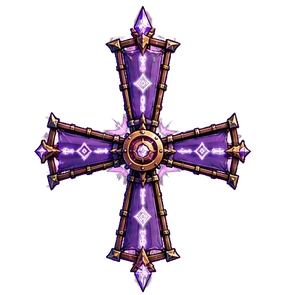
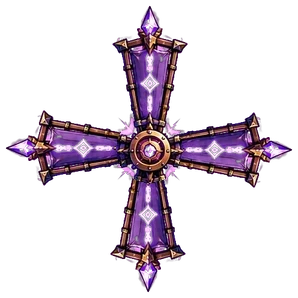
v0.6.3.0444 각성 풍차 날개 네 개 길이 통일(회전 중심 정중앙)
Claude-Session: https://claude.ai/code/session_01AwLthSKStJ6TZafJZN1U3z

Changed region(s): [[0.0, 0.0, 0.9763, 1.0]]

diff --git a/index.html b/index.html
@@ -1188,7 +1188,7 @@ body.hud-norank #dmgRank,body.hud-nocombo #combo{display:none!important}
     <div class="spVer" id="spVer"></div>
   </section>
   <section class="screen" id="sTitle">
-    <div class="ver" id="verT">v0.6.3.0443</div>
+    <div class="ver" id="verT">v0.6.3.0444</div>
     <button class="gearT" id="bSet" aria-label="메뉴"><svg viewBox="0 0 24 24" width="24" height="24" fill="none" stroke="currentColor" stroke-width="2.2" stroke-linecap="round" aria-hidden="true"><path d="M4 7h16M4 12h16M4 17h16"/></svg><i class="mnew" id="menuB" hidden>NEW</i></button>
     <button class="gearT" id="bFull" aria-label="전체화면" hidden></button>
     <div class="eyebrow">DARK GUARDIAN</div>
@@ -5684,7 +5684,7 @@ function townBub(k){ const B=getTown()[k], D=TOWN_B[k], lv=B.lv|0; if(lv<1)retur
   if(D.stat){ townTick(k); const n=B.n|0; return n>0?{tx:`🧪 ${n}개 ▸ 받기`,cls:'g'}:null; }   /* 풍차는 올스탯 말풍선을 따로 띄우지 않아요(건물을 눌러 확인) · 예전 물약이 남아 있을 때만 받기 말풍선 */
   const P=townProd(k), n=B.n|0, full=n>=P.cap; return {tx:`${D.pot?'🧪':D.e} ${n}/${P.cap}${full?' 가득!':n>0?' ▸ 받기':''}`,cls:full?'f':n>0?'g':'z'}; }
 /* 각성 풍차 그림: 레벨 단계(Lv.1~2·3~4·5~6·7~8·9~10)마다 몸체가 발전하고, 날개 그림이 축을 중심으로 천천히 돌아요. [몸체 가로·세로, 축 x·y, 날개 한 변] (그림 픽셀, 화면에는 1/3로 보여줘요) · 그림이 없으면 기본 SVG */
-const MILL_ST=[[165,281,82,85,269],[167,352,83,132,268],[182,404,94,142,295],[209,427,105,140,316],[200,436,100,147,391]];
+const MILL_ST=[[165,281,82,85,268],[167,352,83,132,268],[182,404,94,142,298],[209,427,105,140,324],[200,436,100,147,392]];
 function millArt(lv){ const st=Math.max(1,Math.min(5,Math.ceil(lv/2))), [w,h,hx,hy,cw]=MILL_ST[st-1], f=n=>(n/3).toFixed(1), oh=Math.max(0,Math.round((cw/2-hy)/3)), bad=`this.closest('.tbd').classList.add('mbad')`;
   return `<span class="tmill" style="width:${f(w)}px;height:${f(h)}px;margin-top:${oh}px"><img class="mb" src="img/town_mill_body_${st}.webp" alt="" draggable="false" onerror="${bad}"><img class="ml" src="img/town_mill_blades_${st}.webp" alt="" draggable="false" style="left:${f(hx)}px;top:${f(hy)}px;width:${f(cw)}px;height:${f(cw)}px;animation-duration:${22-2*st}s" onerror="${bad}"></span>`; }
 /* 그림자 타워 그림: 레벨(1~5)마다 모양이 발전하고 크기도 조금씩 커져요. [그림 가로·세로] (그림 픽셀, 화면에는 1/3로 보여줘요) · 그림이 없으면 기본 SVG */

diff --git a/CLAUDE.md b/CLAUDE.md
@@ -1,3 +1,3 @@
 # 개발 규칙
 - 게임 밸런스/수치(확률, 데미지, 비용, 쿨타임, 드랍 등)를 바꿀 때마다 `patchnotes.txt` 맨 위에 해당 버전 항목을 추가하고 바뀐 수치를 간략히 적는다. 표기는 "변경: 120% → 90%", "상향: 3 → 5", "하향: …", "수정: …", "추가: …"처럼 쓴다("이전 → 이후:" 문구는 쓰지 않는다. 필요하면 "이전: A → 이후: B" 형태는 가능). (인게임 메뉴·설정·시작화면 버전 글자에서 이 파일을 보여줌)
-- 버전은 `0.6.3.NNNN` (빌드 번호 = 커밋 수 − 70, 0.4.0.0124 다음부터 0.4.1.0125 → 0.4.2.0128 → 0.4.2.0129 → 0.4.2.0130 → 0.4.2.0131 → 0.4.2.0132 → 0.4.2.0133 → 0.4.2.0134 → 0.4.2.0135 → 0.4.2.0136 → 0.4.2.0137 → 0.4.2.0138 → 0.4.2.0139 → 0.4.2.0140 → 0.4.2.0141 → 0.4.2.0142 → 0.4.2.0143 → 0.4.2.0144 → 0.4.2.0145 → 0.4.2.0146 → 0.4.2.0147 → 0.4.2.0148 → 0.4.2.0149 → 0.4.3.0150 → 0.4.3.0151 → 0.4.3.0152 → 0.4.3.0153 → 0.4.3.0154 → 0.4.3.0155 → 0.4.3.0156 → 0.4.3.0157 → 0.4.3.0158 → 0.4.3.0159 → 0.4.3.0160 → 0.4.3.0161 → 0.4.3.0162 → 0.4.3.0163 → 0.4.3.0164 → 0.4.3.0165 → 0.4.3.0166 → 0.4.3.0167 → 0.4.4.0168 → 0.4.4.0169 → 0.4.4.0170 → 0.4.4.0171 → 0.4.4.0172 → 0.4.4.0173 → 0.4.5.0174 → 0.4.5.0175 → 0.4.5.0176 → 0.4.5.0177 → 0.4.5.0178 → 0.4.5.0179 → 0.4.5.0180 → 0.4.6.0181 → 0.4.6.0182 → 0.4.6.0183 → 0.4.6.0184 → 0.4.6.0185 → 0.4.6.0186 → 0.4.6.0187 → 0.4.6.0188 → 0.4.6.0189 → 0.4.6.0190 → 0.4.6.0191 → 0.4.6.0192 → 0.4.6.0193 → 0.4.6.0194 → 0.4.6.0195 → 0.4.6.0196 → 0.4.7.0197 → 0.4.7.0198 → 0.4.7.0199 → 0.4.7.0200 → 0.4.7.0201 → 0.4.7.0202 → 0.4.7.0203 → 0.4.7.0204 → 0.4.7.0205 → 0.4.7.0206 → 0.4.7.0207 → 0.4.7.0208 → 0.5.0.0209 → 0.5.0.0210 → 0.5.0.0211 → 0.5.0.0212 → 0.5.0.0213 → 0.5.0.0214 → 0.5.0.0215 → 0.5.0.0216 → 0.5.0.0217 → 0.5.0.0218 → 0.5.0.0219 → 0.5.0.0220 → 0.5.0.0221 → 0.5.0.0222 → 0.5.0.0223 → 0.5.0.0224 → 0.5.0.0225 → 0.5.0.0226 → 0.5.0.0227 → 0.5.0.0228 → 0.5.0.0229 → 0.5.0.0230 → 0.5.0.0231 → 0.5.0.0232 → 0.5.0.0233 → 0.5.0.0234 → 0.5.0.0235 → 0.5.0.0236 → 0.5.0.0237 → 0.5.0.0238 → 0.5.0.0239 → 0.5.0.0240 → 0.5.0.0241 → 0.6.0.0241 → 0.6.0.0242 → 0.6.0.0243 → 0.6.0.0244 → 0.6.0.0245 → 0.6.0.0246 → 0.6.0.0247 → 0.6.0.0248 → 0.6.0.0249 → 0.6.0.0250 → 0.6.0.0251 → 0.6.0.0252 → 0.6.0.0253 → 0.6.0.0254 → 0.6.0.0255 → 0.6.0.0256 → 0.6.0.0257 → 0.6.0.0258 → 0.6.0.0259 → 0.6.0.0260 → 0.6.0.0261 → 0.6.0.0262 → 0.6.0.0263 → 0.6.0.0264 → 0.6.0.0265 → 0.6.0.0266 → 0.6.0.0267 → 0.6.0.0268 → 0.6.0.0269 → 0.6.0.0270 → 0.6.0.0271 → 0.6.0.0272 → 0.6.0.0273 → 0.6.0.0274 → 0.6.0.0275 → 0.6.0.0276 → 0.6.0.0277 → 0.6.0.0278 → 0.6.0.0279 → 0.6.0.0280 → 0.6.0.0281 → 0.6.0.0282 → 0.6.0.0283 → 0.6.0.0284 → 0.6.0.0285 → 0.6.0.0286 → 0.6.0.0287 → 0.6.0.0288 → 0.6.0.0289 → 0.6.0.0290 → 0.6.0.0291 → 0.6.0.0292 → 0.6.0.0293 → 0.6.0.0294 → 0.6.0.0295 → 0.6.0.0296 → 0.6.0.0297 → 0.6.0.0298 → 0.6.0.0299 → 0.6.0.0300 → 0.6.0.0301 → 0.6.0.0302 → 0.6.0.0303 → 0.6.0.0304 → 0.6.0.0305 → 0.6.0.0306 → 0.6.0.0307 → 0.6.0.0308 → 0.6.0.0309 → 0.6.0.0310 → 0.6.0.0311 → 0.6.0.0312 → 0.6.0.0313 → 0.6.0.0314 → 0.6.0.0315 → 0.6.0.0316 → 0.6.0.0317 → 0.6.0.0318 → 0.6.0.0319 → 0.6.0.0320 → 0.6.0.0321 → 0.6.0.0322 → 0.6.0.0323 → 0.6.0.0324 → 0.6.0.0325 → 0.6.0.0326 → 0.6.0.0327 → 0.6.0.0328 → 0.6.0.0329 → 0.6.0.0330 → 0.6.0.0331 → 0.6.0.0332 → 0.6.0.0333 → 0.6.0.0334 → 0.6.0.0335 → 0.6.0.0336 → 0.6.0.0337 → 0.6.0.0338 → 0.6.0.0339 → 0.6.0.0340 → 0.6.1.0341 → 0.6.1.0342 → 0.6.1.0343 → 0.6.1.0344 → 0.6.1.0345 → 0.6.1.0346 → 0.6.1.0347 → 0.6.1.0348 → 0.6.1.0349 → 0.6.1.0350 → 0.6.1.0351 → 0.6.1.0352 → 0.6.1.0353 → 0.6.1.0354 → 0.6.1.0355 → 0.6.1.0356 → 0.6.1.0357 → 0.6.1.0358 → 0.6.1.0359 → 0.6.1.0360 → 0.6.1.0361 → 0.6.1.0362 → 0.6.1.0363 → 0.6.1.0364 → 0.6.1.0365 → 0.6.1.0366 → 0.6.1.0367 → 0.6.1.0368 → 0.6.1.0369 → 0.6.1.0370 → 0.6.1.0371 → 0.6.1.0372 → 0.6.1.0373 → 0.6.1.0374 → 0.6.1.0375 → 0.6.1.0376 → 0.6.1.0377 → 0.6.1.0378 → 0.6.1.0379 → 0.6.1.0380 → 0.6.1.0381 → 0.6.1.0382 → 0.6.1.0383 → 0.6.1.0384 → 0.6.1.0385 → 0.6.1.0386 → 0.6.1.0387 → 0.6.1.0388 → 0.6.1.0389 → 0.6.2.0390 → 0.6.2.0391 → 0.6.2.0392 → 0.6.2.0393 → 0.6.2.0394 → 0.6.2.0395 → 0.6.2.0396 → 0.6.2.0397 → 0.6.2.0398 → 0.6.2.0399 → 0.6.2.0400 → 0.6.2.0401 → 0.6.2.0402 → 0.6.2.0403 → 0.6.2.0404 → 0.6.2.0405 → 0.6.2.0406 → 0.6.2.0407 → 0.6.2.0408 → 0.6.2.0409 → 0.6.2.0410 → 0.6.2.0411 → 0.6.2.0412 → 0.6.2.0413 → 0.6.2.0414 → 0.6.2.0415 → 0.6.2.0416 → 0.6.2.0417 → 0.6.2.0418 → 0.6.3.0419 → 0.6.3.0420 → 0.6.3.0421 → 0.6.3.0422 → 0.6.3.0423 → 0.6.3.0424 → 0.6.3.0425 → 0.6.3.0426 → 0.6.3.0427 → 0.6.3.0428 → 0.6.3.0429 → 0.6.3.0430 → 0.6.3.0431 → 0.6.3.0432 → 0.6.3.0433 → 0.6.3.0434 → 0.6.3.0435 → 0.6.3.0436 → 0.6.3.0437 → 0.6.3.0438 → 0.6.3.0439 → 0.6.3.0440 → 0.6.3.0441 → 0.6.3.0442 → 0.6.3.0443로 이어서 증가). 커밋 때 patchnotes.txt의 버전 번호도 맞춘다.
+- 버전은 `0.6.3.NNNN` (빌드 번호 = 커밋 수 − 70, 0.4.0.0124 다음부터 0.4.1.0125 → 0.4.2.0128 → 0.4.2.0129 → 0.4.2.0130 → 0.4.2.0131 → 0.4.2.0132 → 0.4.2.0133 → 0.4.2.0134 → 0.4.2.0135 → 0.4.2.0136 → 0.4.2.0137 → 0.4.2.0138 → 0.4.2.0139 → 0.4.2.0140 → 0.4.2.0141 → 0.4.2.0142 → 0.4.2.0143 → 0.4.2.0144 → 0.4.2.0145 → 0.4.2.0146 → 0.4.2.0147 → 0.4.2.0148 → 0.4.2.0149 → 0.4.3.0150 → 0.4.3.0151 → 0.4.3.0152 → 0.4.3.0153 → 0.4.3.0154 → 0.4.3.0155 → 0.4.3.0156 → 0.4.3.0157 → 0.4.3.0158 → 0.4.3.0159 → 0.4.3.0160 → 0.4.3.0161 → 0.4.3.0162 → 0.4.3.0163 → 0.4.3.0164 → 0.4.3.0165 → 0.4.3.0166 → 0.4.3.0167 → 0.4.4.0168 → 0.4.4.0169 → 0.4.4.0170 → 0.4.4.0171 → 0.4.4.0172 → 0.4.4.0173 → 0.4.5.0174 → 0.4.5.0175 → 0.4.5.0176 → 0.4.5.0177 → 0.4.5.0178 → 0.4.5.0179 → 0.4.5.0180 → 0.4.6.0181 → 0.4.6.0182 → 0.4.6.0183 → 0.4.6.0184 → 0.4.6.0185 → 0.4.6.0186 → 0.4.6.0187 → 0.4.6.0188 → 0.4.6.0189 → 0.4.6.0190 → 0.4.6.0191 → 0.4.6.0192 → 0.4.6.0193 → 0.4.6.0194 → 0.4.6.0195 → 0.4.6.0196 → 0.4.7.0197 → 0.4.7.0198 → 0.4.7.0199 → 0.4.7.0200 → 0.4.7.0201 → 0.4.7.0202 → 0.4.7.0203 → 0.4.7.0204 → 0.4.7.0205 → 0.4.7.0206 → 0.4.7.0207 → 0.4.7.0208 → 0.5.0.0209 → 0.5.0.0210 → 0.5.0.0211 → 0.5.0.0212 → 0.5.0.0213 → 0.5.0.0214 → 0.5.0.0215 → 0.5.0.0216 → 0.5.0.0217 → 0.5.0.0218 → 0.5.0.0219 → 0.5.0.0220 → 0.5.0.0221 → 0.5.0.0222 → 0.5.0.0223 → 0.5.0.0224 → 0.5.0.0225 → 0.5.0.0226 → 0.5.0.0227 → 0.5.0.0228 → 0.5.0.0229 → 0.5.0.0230 → 0.5.0.0231 → 0.5.0.0232 → 0.5.0.0233 → 0.5.0.0234 → 0.5.0.0235 → 0.5.0.0236 → 0.5.0.0237 → 0.5.0.0238 → 0.5.0.0239 → 0.5.0.0240 → 0.5.0.0241 → 0.6.0.0241 → 0.6.0.0242 → 0.6.0.0243 → 0.6.0.0244 → 0.6.0.0245 → 0.6.0.0246 → 0.6.0.0247 → 0.6.0.0248 → 0.6.0.0249 → 0.6.0.0250 → 0.6.0.0251 → 0.6.0.0252 → 0.6.0.0253 → 0.6.0.0254 → 0.6.0.0255 → 0.6.0.0256 → 0.6.0.0257 → 0.6.0.0258 → 0.6.0.0259 → 0.6.0.0260 → 0.6.0.0261 → 0.6.0.0262 → 0.6.0.0263 → 0.6.0.0264 → 0.6.0.0265 → 0.6.0.0266 → 0.6.0.0267 → 0.6.0.0268 → 0.6.0.0269 → 0.6.0.0270 → 0.6.0.0271 → 0.6.0.0272 → 0.6.0.0273 → 0.6.0.0274 → 0.6.0.0275 → 0.6.0.0276 → 0.6.0.0277 → 0.6.0.0278 → 0.6.0.0279 → 0.6.0.0280 → 0.6.0.0281 → 0.6.0.0282 → 0.6.0.0283 → 0.6.0.0284 → 0.6.0.0285 → 0.6.0.0286 → 0.6.0.0287 → 0.6.0.0288 → 0.6.0.0289 → 0.6.0.0290 → 0.6.0.0291 → 0.6.0.0292 → 0.6.0.0293 → 0.6.0.0294 → 0.6.0.0295 → 0.6.0.0296 → 0.6.0.0297 → 0.6.0.0298 → 0.6.0.0299 → 0.6.0.0300 → 0.6.0.0301 → 0.6.0.0302 → 0.6.0.0303 → 0.6.0.0304 → 0.6.0.0305 → 0.6.0.0306 → 0.6.0.0307 → 0.6.0.0308 → 0.6.0.0309 → 0.6.0.0310 → 0.6.0.0311 → 0.6.0.0312 → 0.6.0.0313 → 0.6.0.0314 → 0.6.0.0315 → 0.6.0.0316 → 0.6.0.0317 → 0.6.0.0318 → 0.6.0.0319 → 0.6.0.0320 → 0.6.0.0321 → 0.6.0.0322 → 0.6.0.0323 → 0.6.0.0324 → 0.6.0.0325 → 0.6.0.0326 → 0.6.0.0327 → 0.6.0.0328 → 0.6.0.0329 → 0.6.0.0330 → 0.6.0.0331 → 0.6.0.0332 → 0.6.0.0333 → 0.6.0.0334 → 0.6.0.0335 → 0.6.0.0336 → 0.6.0.0337 → 0.6.0.0338 → 0.6.0.0339 → 0.6.0.0340 → 0.6.1.0341 → 0.6.1.0342 → 0.6.1.0343 → 0.6.1.0344 → 0.6.1.0345 → 0.6.1.0346 → 0.6.1.0347 → 0.6.1.0348 → 0.6.1.0349 → 0.6.1.0350 → 0.6.1.0351 → 0.6.1.0352 → 0.6.1.0353 → 0.6.1.0354 → 0.6.1.0355 → 0.6.1.0356 → 0.6.1.0357 → 0.6.1.0358 → 0.6.1.0359 → 0.6.1.0360 → 0.6.1.0361 → 0.6.1.0362 → 0.6.1.0363 → 0.6.1.0364 → 0.6.1.0365 → 0.6.1.0366 → 0.6.1.0367 → 0.6.1.0368 → 0.6.1.0369 → 0.6.1.0370 → 0.6.1.0371 → 0.6.1.0372 → 0.6.1.0373 → 0.6.1.0374 → 0.6.1.0375 → 0.6.1.0376 → 0.6.1.0377 → 0.6.1.0378 → 0.6.1.0379 → 0.6.1.0380 → 0.6.1.0381 → 0.6.1.0382 → 0.6.1.0383 → 0.6.1.0384 → 0.6.1.0385 → 0.6.1.0386 → 0.6.1.0387 → 0.6.1.0388 → 0.6.1.0389 → 0.6.2.0390 → 0.6.2.0391 → 0.6.2.0392 → 0.6.2.0393 → 0.6.2.0394 → 0.6.2.0395 → 0.6.2.0396 → 0.6.2.0397 → 0.6.2.0398 → 0.6.2.0399 → 0.6.2.0400 → 0.6.2.0401 → 0.6.2.0402 → 0.6.2.0403 → 0.6.2.0404 → 0.6.2.0405 → 0.6.2.0406 → 0.6.2.0407 → 0.6.2.0408 → 0.6.2.0409 → 0.6.2.0410 → 0.6.2.0411 → 0.6.2.0412 → 0.6.2.0413 → 0.6.2.0414 → 0.6.2.0415 → 0.6.2.0416 → 0.6.2.0417 → 0.6.2.0418 → 0.6.3.0419 → 0.6.3.0420 → 0.6.3.0421 → 0.6.3.0422 → 0.6.3.0423 → 0.6.3.0424 → 0.6.3.0425 → 0.6.3.0426 → 0.6.3.0427 → 0.6.3.0428 → 0.6.3.0429 → 0.6.3.0430 → 0.6.3.0431 → 0.6.3.0432 → 0.6.3.0433 → 0.6.3.0434 → 0.6.3.0435 → 0.6.3.0436 → 0.6.3.0437 → 0.6.3.0438 → 0.6.3.0439 → 0.6.3.0440 → 0.6.3.0441 → 0.6.3.0442 → 0.6.3.0443 → 0.6.3.0444로 이어서 증가). 커밋 때 patchnotes.txt의 버전 번호도 맞춘다.
